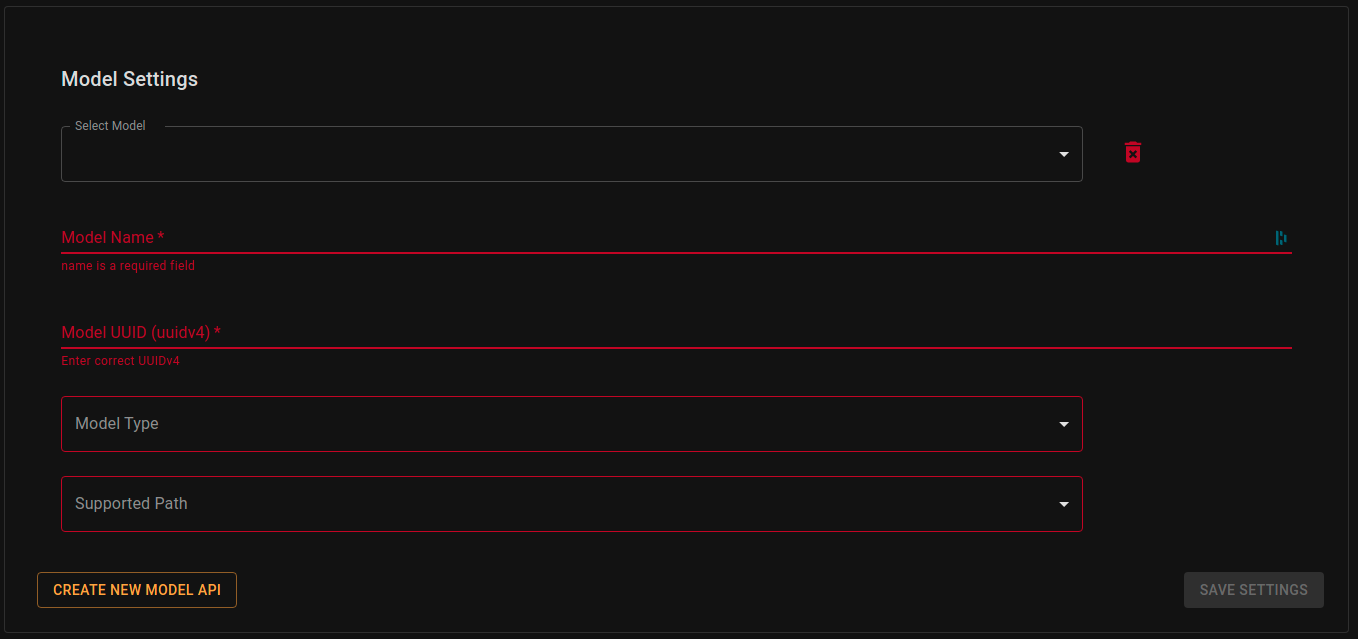
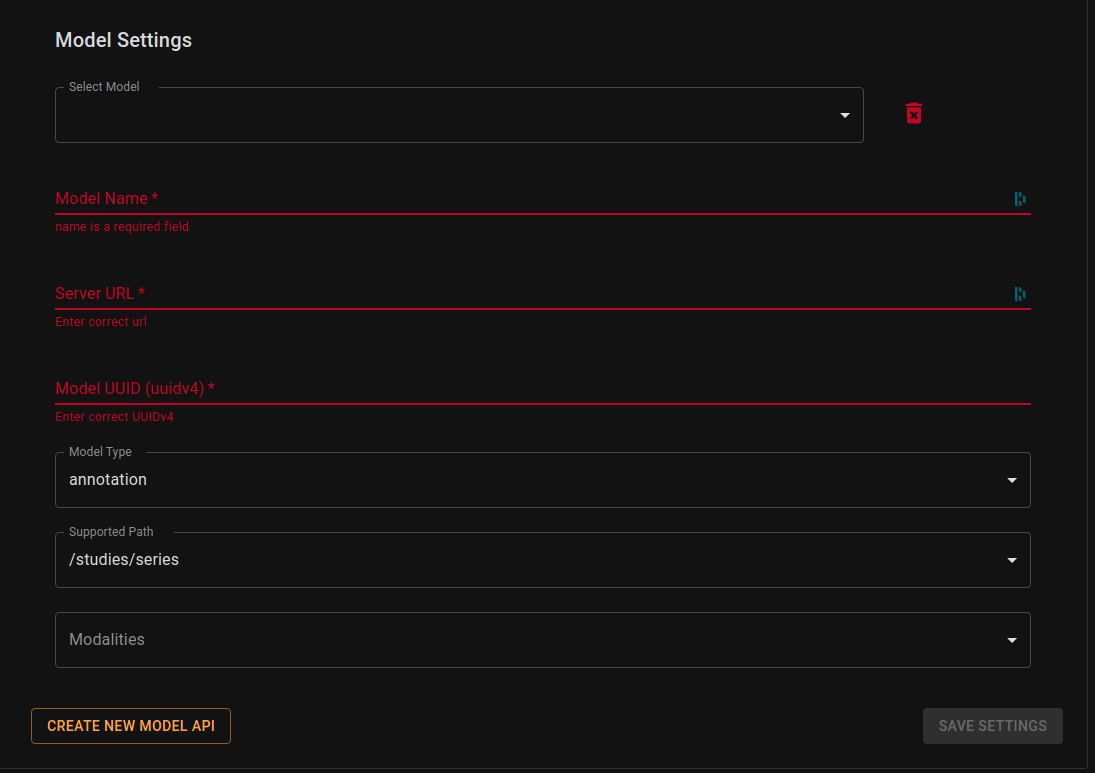
Update documentation to handle new inference API requirements (add uuids and `server` parameter)

diff --git a/src/components/Layout/NavListElement.tsx b/src/components/Layout/NavListElement.tsx
@@ -17,15 +17,17 @@ import TimerIcon from "@mui/icons-material/Timer";
 import SettingsIcon from "@mui/icons-material/Settings";
 import PhonelinkSetupIcon from "@mui/icons-material/PhonelinkSetup";
 import ConstructionIcon from "@mui/icons-material/Construction";
-import ScatterPlotIcon from '@mui/icons-material/ScatterPlot';
-import FormatShapesIcon from '@mui/icons-material/FormatShapes';
-import SchemaOutlinedIcon from '@mui/icons-material/SchemaOutlined';
+import ScatterPlotIcon from "@mui/icons-material/ScatterPlot";
+import FormatShapesIcon from "@mui/icons-material/FormatShapes";
+import SchemaOutlinedIcon from "@mui/icons-material/SchemaOutlined";
 import { useContext, useState } from "react";
 import { MenuListItem } from "../../services/OpenAPI";
 import OperationBadge from "../common/OperationBadge";
 import { NavigationContext } from "./NavigationContext";
 import { scrollToId } from "../../utils/scrollToId";
 import { isBrowser } from "../Redoc/Markdown/SanitizedMdBlock";
+
+const MAX_HEADING_DEPTH = 2;
 
 const ICON_MAP = {
   users: <PeopleIcon />,
@@ -176,7 +178,7 @@ export default function NavListElement({
     return acc;
   }, {});
 
-  const selectedHash = isBrowser() ? window.location.hash : '';
+  const selectedHash = isBrowser() ? window.location.hash : "";
 
   return (
     <React.Fragment>
@@ -215,25 +217,34 @@ export default function NavListElement({
                           >
                             <ListItemText primary={page.frontmatter.title} />
                           </ListItemButton>
-                          {page.headings.map((heading) => (
-                            <React.Fragment key={page.fields.slug + heading.id}>
-                              <ListItemButton
-                                onClick={
-                                  pagesClickHandlers[page.fields.slug][
-                                    heading.id
-                                  ]
-                                }
-                                selected={`#${heading.id}` === selectedHash}
-                                sx={{
-                                  ...item,
-                                  pl: 6 + (heading.depth - 1) * 2,
-                                }}
+                          {page.headings
+                            .filter(
+                              (heading) => heading.depth <= MAX_HEADING_DEPTH
+                            )
+                            .map((heading) => (
+                              <React.Fragment
                                 key={page.fields.slug + heading.id}
                               >
-                                <ListItemText primary={"- " + heading.value} />
-                              </ListItemButton>
-                            </React.Fragment>
-                          ))}
+                                <ListItemButton
+                                  onClick={
+                                    pagesClickHandlers[page.fields.slug][
+                                      heading.id
+                                    ]
+                                  }
+                                  selected={`#${heading.id}` === selectedHash}
+                                  sx={{
+                                    ...item,
+                                    pl: 6 + (heading.depth - 1) * 2,
+                                  }}
+                                  key={page.fields.slug + heading.id}
+                                >
+                                  <ListItemText
+                                    primaryTypographyProps={{ style: {fontSize: "12px"} }}
+                                    primary={"- " + heading.value}
+                                  />
+                                </ListItemButton>
+                              </React.Fragment>
+                            ))}
                         </React.Fragment>
                       ))}
                     {groups
@@ -281,6 +292,7 @@ export default function NavListElement({
                                       <OperationBadge item={openApiItem} />
                                     </ListItemIcon>
                                     <ListItemText
+                                      primaryTypographyProps={{ style: {fontSize: "12px"} }}
                                       primary={openApiItem.summary}
                                     />
                                   </ListItemButton>

diff --git a/content/pages/adding-new-server-to-app/managing-servers-in-viewer.md b/content/pages/adding-new-server-to-app/managing-servers-in-viewer.md
@@ -32,17 +32,18 @@ When the list is not complete, and you want to add your server to it just click 
 As you can see, this server is not on the list and is not a valid server yet. You have to enter required fields and `Save Settings` at the end.
 
 ### List of fields:
-- `Server Name` - Just a display name, visible on the list of servers
-- `Server URL` - Valid URL to the DICOM server. This path should be compatible with DICOMWeb standard and has to start with `https://`. If you're using our local server then it will look like `https://localhost/zhiva/pacs` or `https://192.168.1.2/zhiva/pacs` if the server is not on your local machine.
-- `Server Postfix` - Any string that is part of the server url. Usually empty but some of the servers have additional postfix like `https://server.mydomain.com/pacs/DCM4CHEE` where `DCM4CHEE` is a `postfix`.
-- `WADO URI Postfix` - Another postfix in case the `WADO` (_Web Access DIICOM Objects_) protocol requires it. Usually `wado`.
-- `WADO Postfix` - If there is additional postfix after `WADO URI` then put it here. Often the value `rs` (_Request/Response_) is used but some servers doesn't have that requirement.
-- `QIDO Postfix` - Postfix for QIDO (_Query based on ID for DICOM Objects_) protocol. Works the same as other postfixes. Often `rs` but some servers leave it empty.
-- `QIDO Supports Include Field` - Whether QIDO supports `Include Fields` option. It is used to retrieve additional metadata when requesting list of studies/series.
-- `Image rendering protocol` - Prefix for retrieving image data from the server. Usually it's `wadors` or `wado` but might be `https`.
-- `Thumbnail rendering protocol` - Prefix for retrieving thumbnail data from the server. Usually it's `wadors` or `wado` but might be `https`. Most of the servers use the same value as for `Image rendering protocol` but if you have extra thumbnail server this value might differ.
-- `Enable Study LazyLoad` - Do not load the whole study at once. Only load selected series (speeds up loading)
-- `Supports Fuzzy Matching` - Does server supports _Fuzzy Matching_ when searching for Studies? ([Our Local Server](/latest/setting-up-local-pacs) does)
+- __Server Name__ - Just a display name, visible on the list of servers
+- __Server URL__ - Valid URL to the DICOM server. This path should be compatible with DICOMWeb standard and has to start with `https://`. If you're using our local server then it will look like `https://localhost/zhiva/pacs` or `https://192.168.1.2/zhiva/pacs` if the server is not on your local machine.
+- __Server Postfix__ - Any string that is part of the server url. Usually empty but some of the servers have additional postfix like `https://server.mydomain.com/pacs/DCM4CHEE` where `DCM4CHEE` is a `postfix`.
+- __Server UUID__ - UUIDV4 of the server. If the server is used for inference it should have one. This UUID is sent along with the inference request to the model (see [`server` property](latest/setting-up-model-proxy#requesting-inference-for-given-model)).
+- __WADO URI Postfix__ - Another postfix in case the `WADO` (_Web Access DIICOM Objects_) protocol requires it. Usually `wado`.
+- __WADO Postfix__ - If there is additional postfix after `WADO URI` then put it here. Often the value `rs` (_Request/Response_) is used but some servers doesn't have that requirement.
+- __QIDO Postfix__ - Postfix for QIDO (_Query based on ID for DICOM Objects_) protocol. Works the same as other postfixes. Often `rs` but some servers leave it empty.
+- __QIDO Supports Include Field__ - Whether QIDO supports __Include Fields__ option. It is used to retrieve additional metadata when requesting list of studies/series.
+- __Image rendering protocol__ - Prefix for retrieving image data from the server. Usually it's `wadors` or `wado` but might be `https`.
+- __Thumbnail rendering protocol__ - Prefix for retrieving thumbnail data from the server. Usually it's `wadors` or `wado` but might be `https`. Most of the servers use the same value as for __Image rendering protocol__ but if you have extra thumbnail server this value might differ.
+- __Enable Study LazyLoad__ - Do not load the whole study at once. Only load selected series (speeds up loading)
+- __Supports Fuzzy Matching__ - Does server supports _Fuzzy Matching_ when searching for Studies? ([Our Local Server](/latest/setting-up-local-pacs) does)
 
 ### zhiva.ai Local Server Setup
 

diff --git a/content/pages/adding-new-model-to-app/managing-models-in-viwere.md b/content/pages/adding-new-model-to-app/managing-models-in-viwere.md
@@ -32,12 +32,14 @@ Usually you should have a list of models defined by your organization and availa
 After modifying settings confirm your choice by clicking on `Save Settings` button (bottom right of the page).
 
 ### List of fields:
-- `Model Name` - Just a display name, visible on the list of servers
-- `Model UUID` - UUIDv4 of model API avaiable though [Model Proxy](/latest/model-proxy)
-- `Model Type` - One of supported types inferences (`segmentation` | `annotation` | `prediction`).
-- `Supported Path` - One of supported data types for inference. This value determines the type od data that model receives through proxy.
-````shell
+- __Model Name__ - Just a display name, visible on the list of servers
+- __Server URL__ - Server to send requests to. If you're using our [Model Proxy](/latest/model-proxy) then it would be `https://localhost:8002`
+- __Model UUID__ - UUIDv4 of model API avaiable though [Model Proxy](/latest/model-proxy)
+- __Model Type__ - One of supported types inferences (`segmentation` | `annotation` | `prediction`).
+- __Supported Path__ - One of supported data types for inference. This value determines the type od data that model receives through proxy. If your model supports more than one path, then just add it twice with different options.
+```shell
 /studies
 /studies/series
 /studies/series/instances
 ```
+- __Modalities__ - If your model is restricted to specific modalities then select them from the list. Otherwise, it will be available for every modality.
